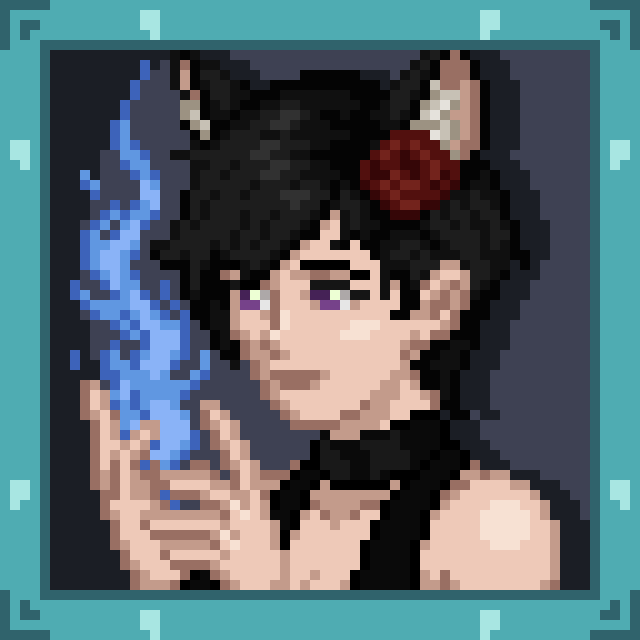
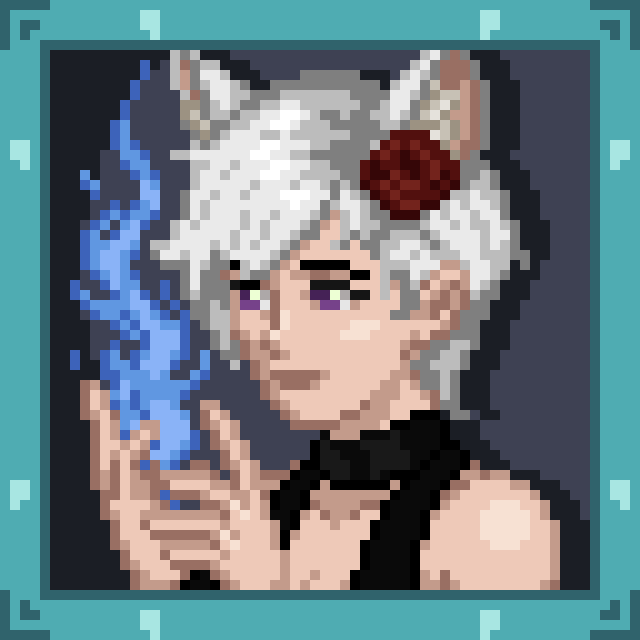
Melissa white hair

Changed region(s): [[0.2188, 0.0625, 0.8438, 0.6562]]

diff --git a/characters.js b/characters.js
@@ -745,7 +745,7 @@ window.characters = [
     {
         file: "Melissa2.png",
         name: "Melissa Leonhart",
-        quote: "",
+        quote: "“Perhaps we now understand that not everything has to have an answer.”",
         thought: "Thank ya fer tryin' to help. I was... just too far gone, at that point, to listen."
     },
     {
